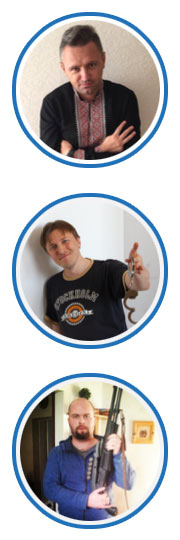
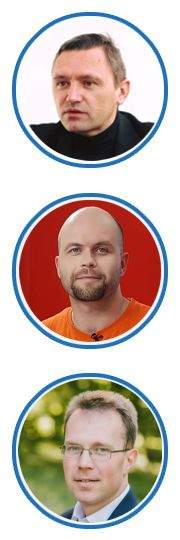
Update En with images.

diff --git a/index_en.html b/index_en.html
@@ -354,21 +354,21 @@
 							<p>Currently, Kos combines numerous roles in Ukrainian cyber security community, including his Chairmanship for NGO Ukrainian Information Security Group and strategic leadership for Berezha Security.</p>
                         </div>
                     </div>
-                    <!--div class="col-sm-4 pd8">
-                        <div class="whitebox">
-                            <div class="tpic">
-                                <img src="images/team.jpg" alt="Andrey Loginov" class="clip pos-2" />
-                            </div>
-                            <h3 class="team txtblue mrg200">Andrey Loginov</h3>
-                            <span class="occ">VP, Business Development</span>
-                            <p>Andrey is an expert in the field of cyber security and telecommunications with more than 15 years of experience in numerous international endeavors. Andrey acted as CTO and Solution Architect  at Internet Service Providers, telco operators, and system integration companies.</p>
-							<p>At Berezha, Andrey is aimed at our business success, constant growth, and engaging new clients and commercial opportunities.</p>
-						</div>
-                    </div-->
                     <div class="col-sm-4 pd8">
                         <div class="whitebox">
                             <div class="tpic">
-                                <img src="images/team.jpg" alt="Vlad Styran" class="clip pos-3" />
+                                <img src="images/team.jpg" alt="Andriy Varusha" class="clip pos-3" />
+                            </div>
+                            <h3 class="team txtblue mrg200">Andriy Varusha</h3>
+                            <span class="occ">Co-founder</span>
+                            <p>Andriy is an accomplished manager with 10+ years of experience in various industry verticals. He has started his carrier in IT Audit and Consulting, and continued in Enterprise IT and Software Development outsourcing industry. Andriy has experience of leading customer relationships within US, UK, and Western Europe geographies, being responsible for distributed teams and different scale permanent engagements.</p>
+                            <p>Andriy has stood at the root of the Ukrainian cyber-security professional community and has joined Berezha to advance his contribution into the development of the infosec industry.</p>
+						</div>
+                    </div>
+                    <div class="col-sm-4 pd8">
+                        <div class="whitebox">
+                            <div class="tpic">
+                                <img src="images/team.jpg" alt="Vlad Styran" class="clip pos-2" />
                             </div>
                             <h3 class="team txtblue mrg200">Vlad Styran, CISSP CISA OSCP</h3>
                             <span class="occ">Director of Operations</span>
